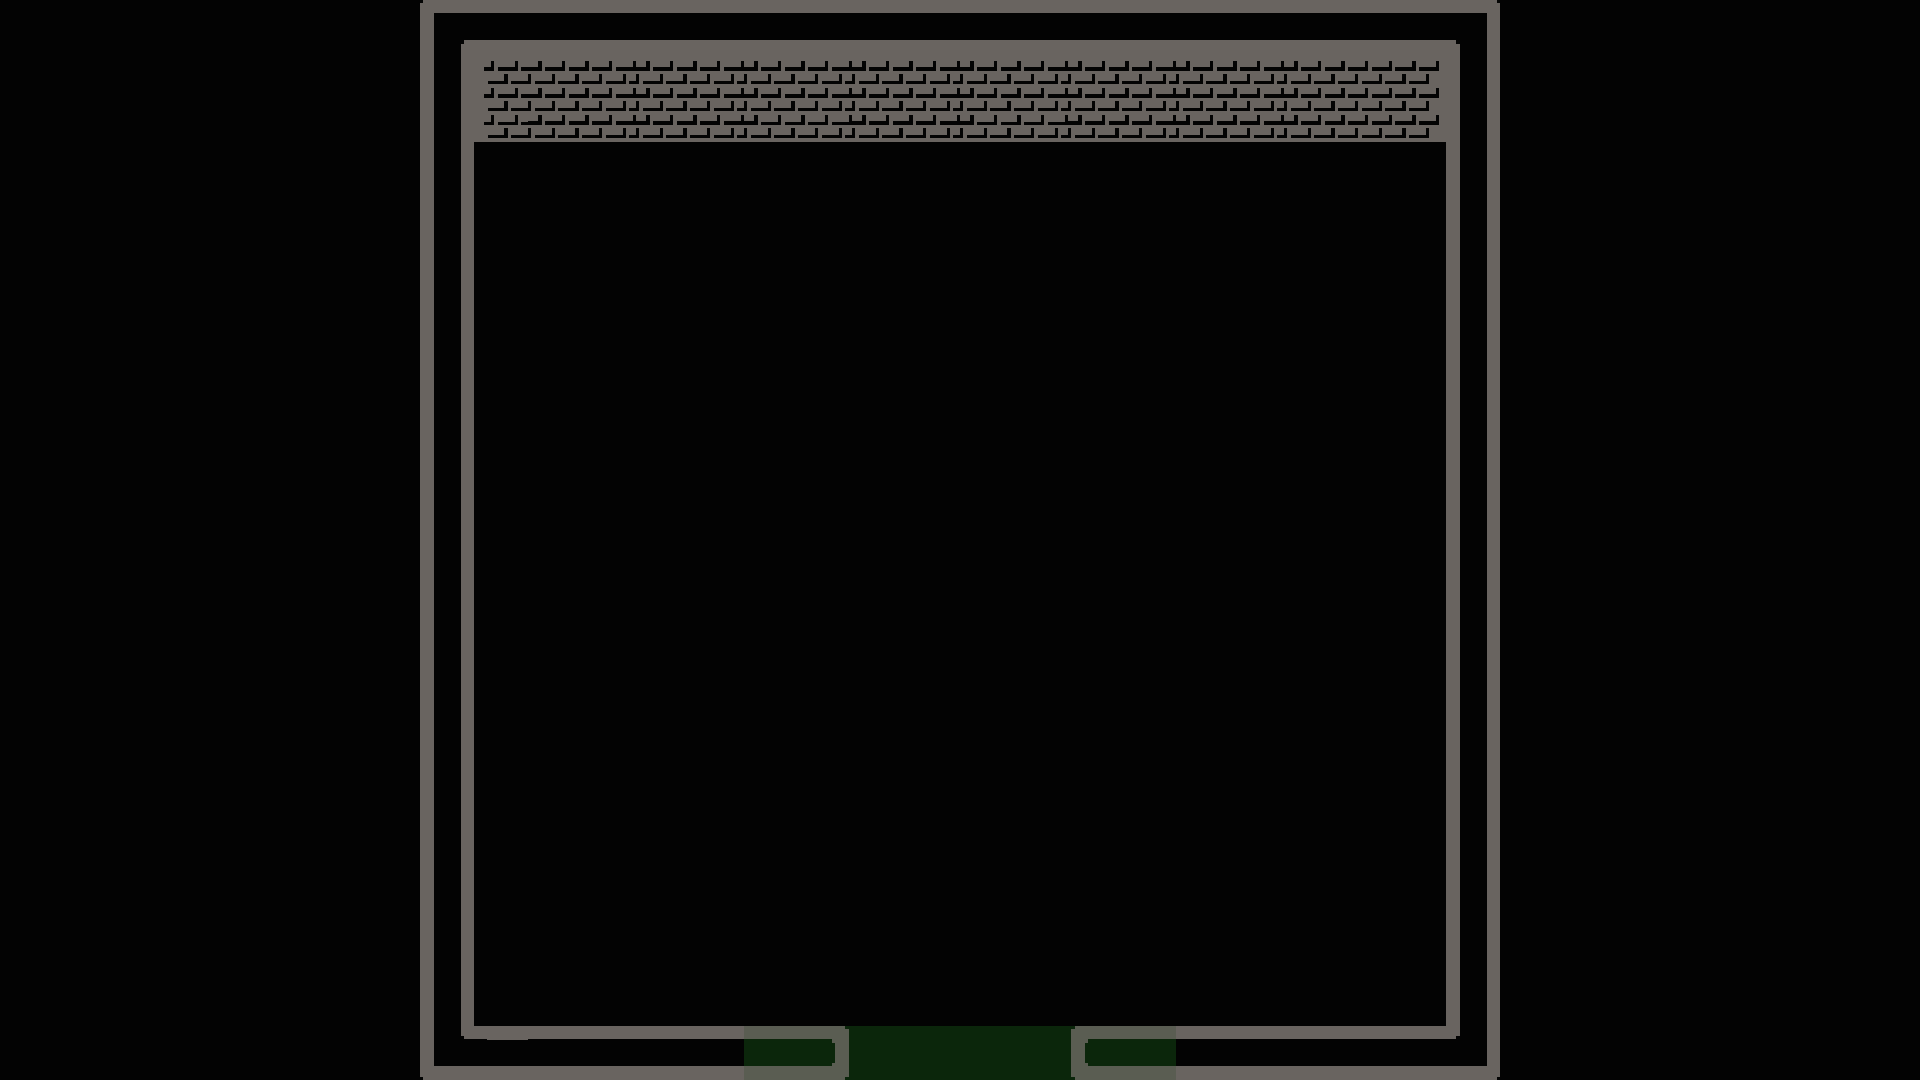
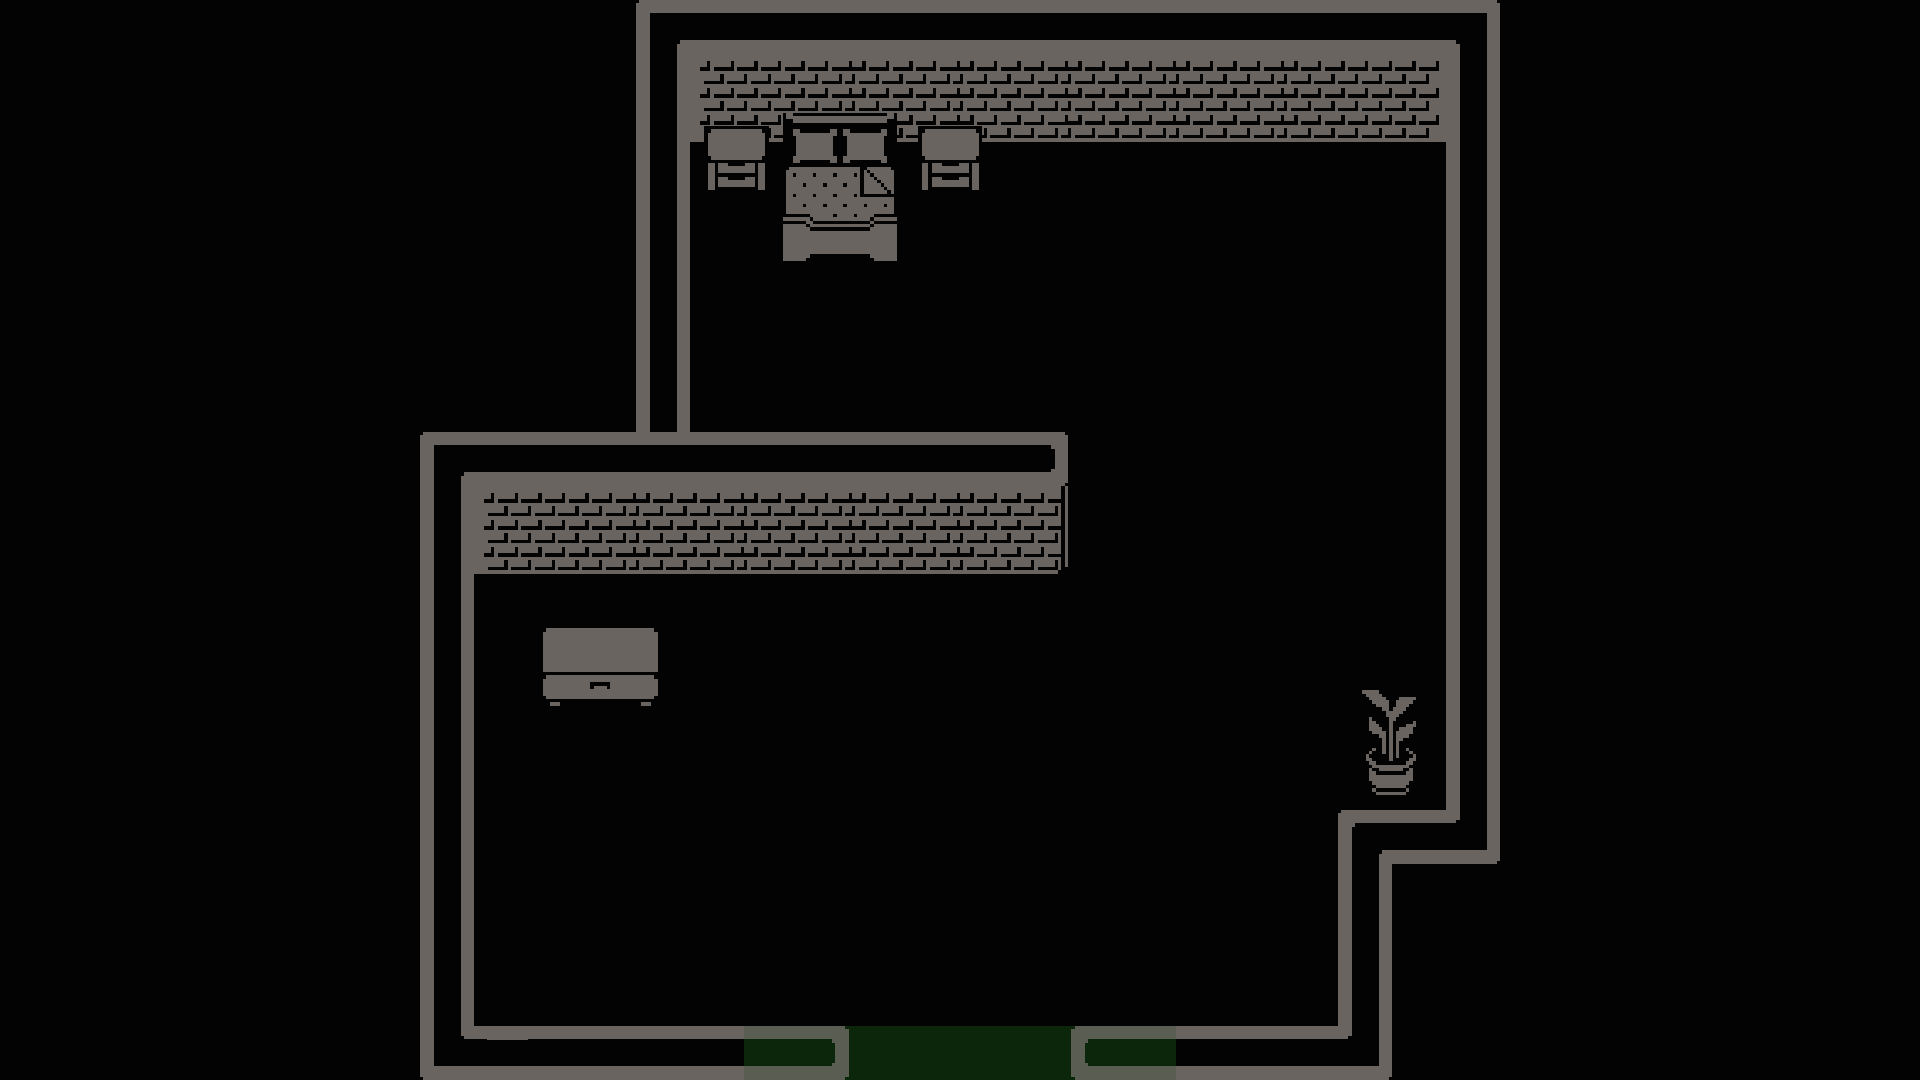
use Tab Key to swap mini map mode

Changed region(s): [[0.2188, 0.0, 0.5625, 0.55], [0.6875, 0.6417, 0.7812, 1.0], [0.2812, 0.5806, 0.3438, 0.6722]]

diff --git a/Assets/Map/MiniMap/MinimapAnimation.cs b/Assets/Map/MiniMap/MinimapAnimation.cs
@@ -1,0 +1,63 @@
+using PrimeTween;
+using UnityEngine;
+using UnityEngine.InputSystem;
+using UnityEngine.UI;
+
+namespace Map.MiniMap
+{
+    public class MinimapAnimation : MonoBehaviour
+    {
+        [SerializeField] private Camera minimapCamera;
+        [SerializeField] private SpriteRenderer borderImage;
+        [SerializeField] private RawImage miniMapImage;
+        
+        [SerializeField] private Vector2 targetPosition;
+        [SerializeField] private float targetSizeFactor;
+        [SerializeField] private float transitionDuration;
+
+        private float startingFieldOfView;
+        
+        private Vector2 miniMapStartingPosition;
+        private Vector2 miniMapStartingSize;
+        
+        private bool isSmallMode = true;
+        
+        private void Start()
+        {
+            startingFieldOfView = minimapCamera.orthographicSize;
+            miniMapStartingPosition = miniMapImage.rectTransform.anchoredPosition;
+            miniMapStartingSize = miniMapImage.rectTransform.sizeDelta;
+        }
+
+        private void Update()
+        {
+            if (Keyboard.current.tabKey.wasPressedThisFrame)
+            {
+                isSmallMode = !isSmallMode;
+
+                if (isSmallMode)
+                    GoToSmallMode();
+                else
+                    GoToBigMode();
+            }
+        }
+
+        private void GoToBigMode()
+        {
+            Sequence.Create()
+                .Group(Tween.UIAnchoredPosition(miniMapImage.rectTransform, targetPosition, transitionDuration))
+                .Group(Tween.UISizeDelta(miniMapImage.rectTransform, miniMapStartingSize * targetSizeFactor, transitionDuration))
+                .Group(Tween.Alpha(borderImage, 0.0f, transitionDuration))
+                .Group(Tween.CameraOrthographicSize(minimapCamera, startingFieldOfView * targetSizeFactor, transitionDuration));
+        }
+
+        private void GoToSmallMode()
+        {
+            Sequence.Create()
+                .Group(Tween.UIAnchoredPosition(miniMapImage.rectTransform, miniMapStartingPosition, transitionDuration))
+                .Group(Tween.UISizeDelta(miniMapImage.rectTransform, miniMapStartingSize, transitionDuration))
+                .Group(Tween.Alpha(borderImage, 1.0f, transitionDuration))
+                .Group(Tween.CameraOrthographicSize(minimapCamera, startingFieldOfView, transitionDuration));
+        }
+    }
+}
